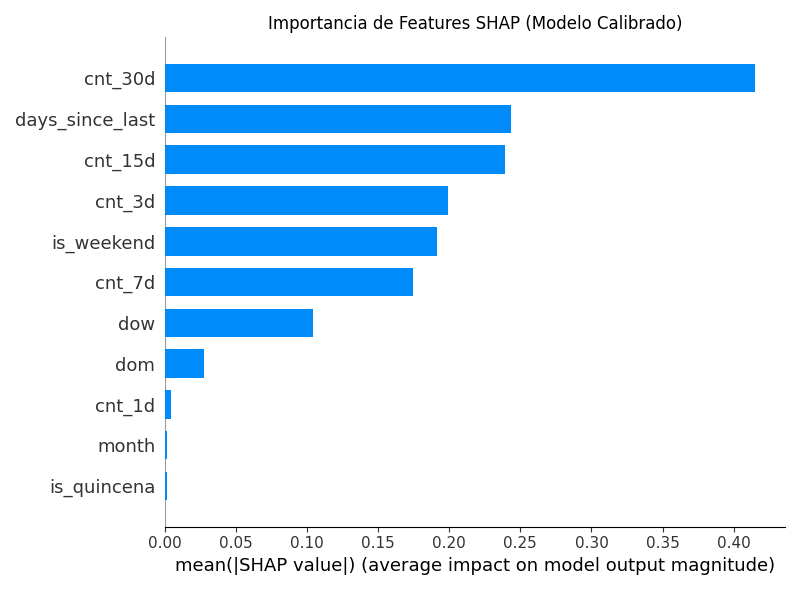
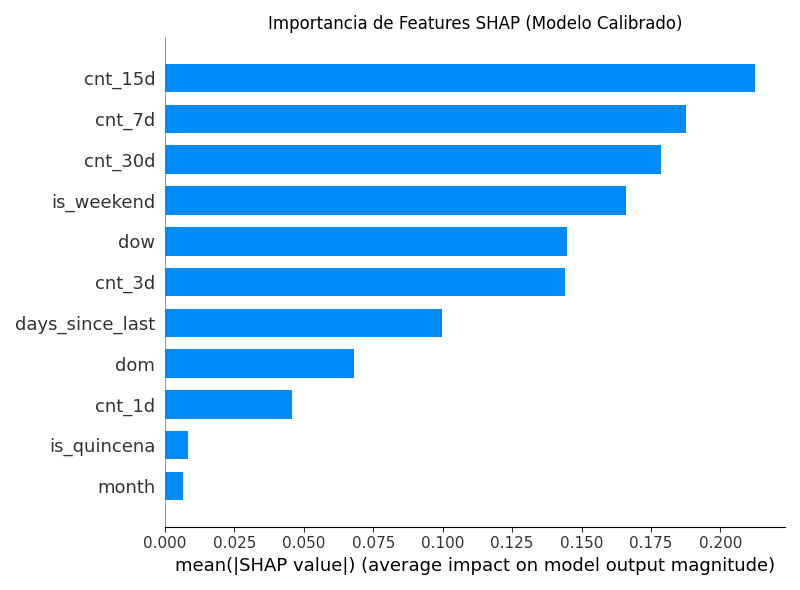
feat: entrenar modelo con nuevos datos.

diff --git a/src/preprocess.py b/src/preprocess.py
@@ -3,9 +3,13 @@ import pandas as pd
 import yaml
 from pathlib import Path
 import argparse
+from datetime import datetime, timedelta
+
+from fastjsonschema.ref_resolver import normalize
+
 
 def preprocess_sales(config_path):
-    """Filtra ventas según reglas de negocio y agrega diariamente."""
+    """Filtra ventas de clientes activos en los últimos 3 meses con patrones de compra y agrega indicador de domicilio."""
     with open(config_path) as f:
         config = yaml.safe_load(f)
 
@@ -18,17 +22,23 @@ def preprocess_sales(config_path):
     df = pd.read_parquet(input_file)
     print(f"Datos cargados desde: {input_file}, Filas: {len(df)}")
 
-    # --- Filtrado por Domicilio ---
-    print("Filtrando por clientes con historial de domicilio...")
-    domicilio_statuses = preprocess_params['domicilio_filter_values']
+    # --- Identificar Clientes con Historial de Domicilio ---
+    print("Identificando clientes con historial de domicilio...")
+    domicilio_statuses = preprocess_params.get('domicilio_filter_values', [])
     client_dom = df[df["domicilio_status"].isin(domicilio_statuses)]["id_client"].unique()
     print(f"Clientes únicos con al menos 1 compra a domicilio: {len(client_dom)}")
-    df_filtered = df[df["id_client"].isin(client_dom)].copy()
-    print(f"Filas tras filtrar por clientes con domicilio: {len(df_filtered)}")
+
+    # --- Filtrado por Actividad Reciente ---
+    print("Filtrando clientes con compras en los últimos 3 meses...")
+    three_months_ago = datetime.now().date() - timedelta(days=90)
+    recent_purchases = df[df["date_sale"].dt.date >= three_months_ago]["id_client"].unique()
+    print(f"Clientes únicos con compras en los últimos 3 meses: {len(recent_purchases)}")
+    df_recent = df[df["id_client"].isin(recent_purchases)].copy()
+    print(f"Filas tras filtrar por actividad reciente: {len(df_recent)}")
 
     # --- Filtrado por Patrones de Compra ---
     print("Calculando y filtrando por patrones de compra...")
-    daily_purchases = df_filtered.drop_duplicates(subset=['id_client', 'date_sale'])[['id_client', 'date_sale']]
+    daily_purchases = df_recent.drop_duplicates(subset=['id_client', 'date_sale'])[['id_client', 'date_sale']]
     daily_purchases = daily_purchases.sort_values(['id_client', 'date_sale'])
     daily_purchases['days_between_purchases'] = daily_purchases.groupby('id_client')['date_sale'].diff().dt.days
     patterns = daily_purchases.groupby('id_client').agg(
@@ -51,33 +61,12 @@ def preprocess_sales(config_path):
     patterns_filtered = patterns_filtered[patterns_filtered["std_days_between"] < max_std_days]
     print(f"Clientes con std < {max_std_days} días entre compras: {len(patterns_filtered)}")
 
-    df_filtered_cut = df_filtered[df_filtered["id_client"].isin(patterns_filtered["id_client"])]
-    print(f"Filas tras filtrar por patrones: {len(df_filtered_cut)}")
-
-    # --- Filtrado por actividad general (opcional, si se necesita refinar más) ---
-    print("Calculando y filtrando por actividad general...")
-    resumen = (df_filtered_cut
-               .groupby('id_client')
-               .agg(num_fechas=('date_sale', 'nunique'),
-                    num_productos=('product', 'nunique'))
-               .reset_index())
-
-    min_purchase_days_filter = preprocess_params['min_purchase_days_filter']
-    min_products_filter = preprocess_params['min_products_filter']
-
-    clientes_objetivo = resumen[
-        (resumen['num_fechas'] > min_purchase_days_filter) &
-        (resumen['num_productos'] > min_products_filter)
-    ]
-    print(f"Clientes cumpliendo filtros de actividad: {len(clientes_objetivo)}")
-
-    df_final = df_filtered_cut[df_filtered_cut["id_client"].isin(clientes_objetivo["id_client"])]
-    print(f"Filas finales tras todos los filtros: {len(df_final)}")
-
+    df_filtered_pattern = df_recent[df_recent["id_client"].isin(patterns_filtered["id_client"])]
+    print(f"Filas tras filtrar por patrones en clientes recientes: {len(df_filtered_pattern)}")
 
     # --- Agregación Diaria por Producto ---
     print("Agregando ventas diarias por producto...")
-    df_final = df_final.rename(columns={
+    df_final = df_filtered_pattern.rename(columns={
         'invoice_value_with_discount_and_without_iva': 'amount_paid',
         'amount': 'quantity'
     })
@@ -95,7 +84,7 @@ def preprocess_sales(config_path):
 
 
     # --- Agregación Diaria por Cliente (para featurize) ---
-    print("Agregando ventas diarias por cliente...")
+    print("Agregando ventas diarias por cliente y creando feature de domicilio...")
     daily = (df_agg.groupby(['id_client', 'date_sale'], as_index=False)
              .agg(qty_tot=('quantity', 'sum'),
                   amount_tot=('amount_paid', 'sum'),
@@ -103,15 +92,16 @@ def preprocess_sales(config_path):
              .assign(purchased=1)
              .rename(columns={'id_client': 'client', 'date_sale': 'date'}))
 
+    # Crear la columna 'has_domicilio'
+    daily['has_domicilio'] = daily['client'].apply(lambda x: 1 if x in client_dom else 0)
+    print("Columna 'has_domicilio' creada.")
+    print("DOMICILIOS")
+    print(daily['has_domicilio'].value_counts(normalize=True))
+
     # Guardar resultados
     daily_output_file = processed_path / config['preprocess']['daily_output_file']
     daily.to_parquet(daily_output_file, index=False)
     print(f"Datos diarios agregados guardados en: {daily_output_file}")
-
-    # (Opcional) Guardar las ventas filtradas si se necesitan después
-    # filtered_sales_output_file = processed_path / 'filtered_sales.parquet'
-    # df_agg.to_parquet(filtered_sales_output_file, index=False)
-    # print(f"Ventas filtradas y agregadas por producto guardadas en: {filtered_sales_output_file}")
 
 if __name__ == "__main__":
     parser = argparse.ArgumentParser()

diff --git a/src/load_data.py b/src/load_data.py
@@ -3,9 +3,10 @@ import pandas as pd
 import yaml
 from pathlib import Path
 import argparse
+from datetime import timedelta
 
 def load_and_clean(config_path):
-    """Carga los datos crudos y realiza limpieza inicial."""
+    """Carga, limpia y filtra las ventas de los últimos 6 meses."""
     with open(config_path) as f:
         config = yaml.safe_load(f)
 
@@ -69,12 +70,19 @@ def load_and_clean(config_path):
     df = df.dropna(subset=['date_sale'])
     df['date_sale'] = df['date_sale'].dt.normalize()
 
+    # --- Filtrar ventas por los últimos 6 meses ---
+    print("Filtrando ventas de los últimos 6 meses...")
+    max_date = df['date_sale'].max()
+    six_months_ago = max_date - timedelta(days=6 * 30)  # Aproximación de 6 meses
+    df_filtered = df[df['date_sale'] >= six_months_ago].copy()
+    print(f"Filas tras filtrar por los últimos 6 meses (desde {six_months_ago} hasta {max_date}): {len(df_filtered)}")
+
     # Seleccionar y guardar columnas relevantes
     output_cols = config['load_data']['output_columns']
-    df_out = df[output_cols].copy()
+    df_out = df_filtered[output_cols].copy()
     output_file = processed_path / config['load_data']['output_file']
     df_out.to_parquet(output_file, index=False)
-    print(f"Datos iniciales guardados en: {output_file}")
+    print(f"Datos iniciales (últimos 6 meses) guardados en: {output_file}")
 
 if __name__ == "__main__":
     parser = argparse.ArgumentParser()
